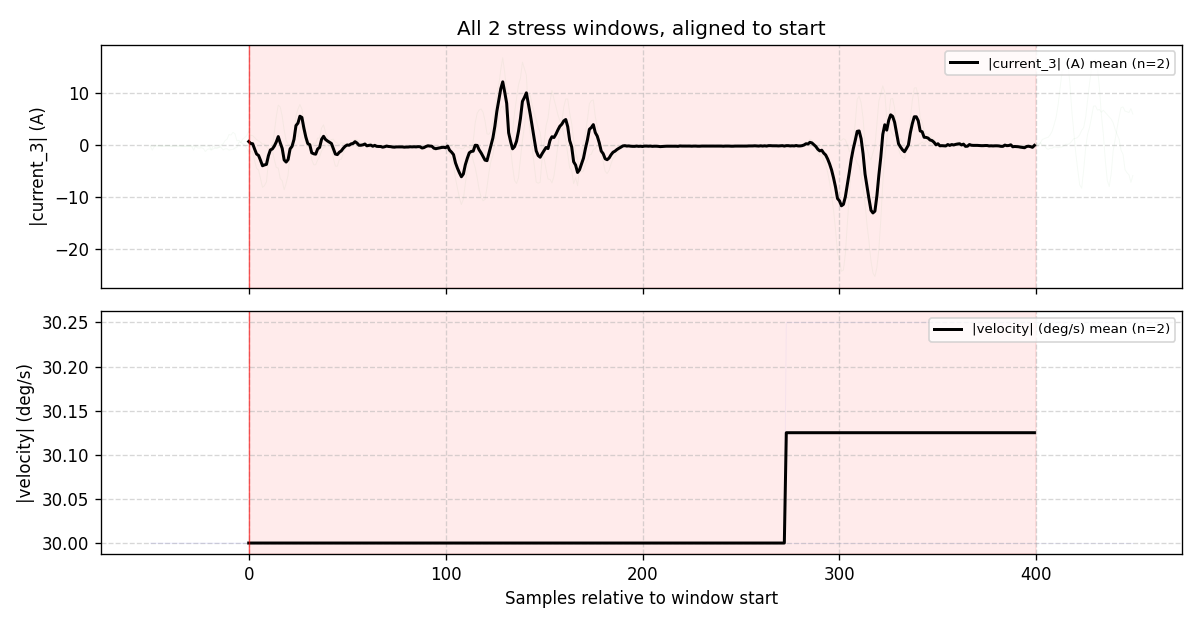
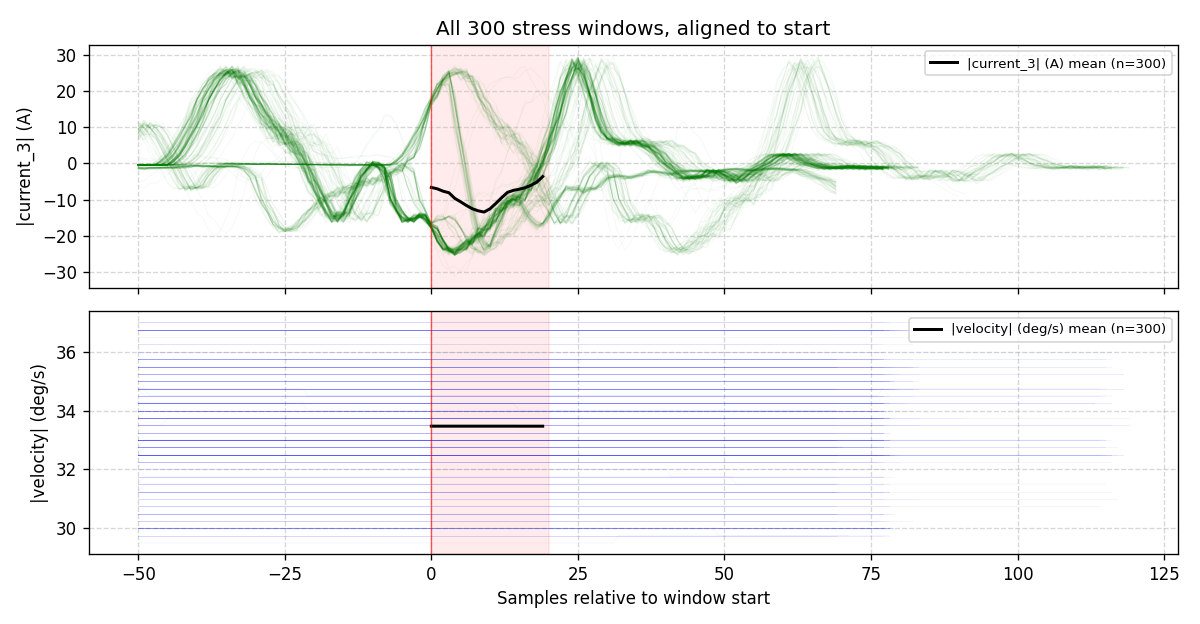
new

diff --git a/zoomplotter.py b/zoomplotter.py
@@ -54,12 +54,14 @@ type YCol = tuple[str, int | str, colour, float, float]
 
 
 def find_windows(series, thresh=None, k=3.0, min_len=20, min_gap=20):
-    """Auto-detect stress regions: contiguous runs where `series` sits above a
-    threshold. Use this when you DON'T have a window list from a detector — it just
-    reads the signal and flags the spikes.
+    """Auto-detect stress regions: contiguous runs where `series` deviates strongly
+    from its baseline. Use this when you DON'T have a window list from a detector.
 
-    thresh : level that counts as 'stressed'. If None, uses mean + k*std of the
-             signal, which adapts to whatever baseline/noise the channel has.
+    Triggers on ABSOLUTE deviation from the median, so it catches spikes whether the
+    signal swings positive OR negative (real current oscillates around zero; a
+    one-sided 'above mean' test would miss the negative excursions).
+
+    thresh : deviation magnitude that counts as 'stressed'. If None, uses k * std.
     min_len: drop runs shorter than this (kills single-sample noise blips).
     min_gap: merge two runs separated by fewer than this many samples (so one event
              that briefly dips under the line isn't split into two).
@@ -67,9 +69,13 @@ def find_windows(series, thresh=None, k=3.0, min_len=20, min_gap=20):
     Returns a list of (start, end) sample-index tuples.
     """
     series = np.asarray(series, float)
+    if series.size == 0:
+        return []
+    baseline = np.median(series)
+    dev = np.abs(series - baseline)
     if thresh is None:
-        thresh = series.mean() + k * series.std()
-    hot = series > thresh
+        thresh = k * series.std()
+    hot = dev > thresh
     edges = np.diff(hot.astype(int))
     starts = list(np.where(edges == 1)[0] + 1)
     ends = list(np.where(edges == -1)[0] + 1)
@@ -178,10 +184,16 @@ def graphAllWindowsOverlay(file_name, windows, yCols: list[YCol], pad=50,
     col_indices = sorted({col_to_index(c[1]) for c in yCols})
     times, cols = _read_columns(file_name, col_indices)
     n = len(times)
-    if n == 0 or not windows:
-        print("No data / no windows.")
+    if n == 0:
+        print("No data.")
         return
 
+    if windows is None:  # auto-detect from the first signal
+        first = cols[col_to_index(yCols[0][1])] * yCols[0][3] + yCols[0][4]
+        windows = find_windows(first)
+    if not windows:
+        print("No windows.")
+        return
     windows = [(int(s), int(e)) for s, e in windows]
     Lmin = min(e - s for s, e in windows)  # shortest window, for the mean region
 
@@ -229,11 +241,16 @@ def graphWindowGrid(file_name, windows, yCol: YCol, pad=50, max_panels=24,
     ci = col_to_index(idx)
     times, cols = _read_columns(file_name, [ci])
     n = len(times)
-    if n == 0 or not windows:
-        print("No data / no windows.")
+    if n == 0:
+        print("No data.")
         return
     series = cols[ci] * mult + off
 
+    if windows is None:  # auto-detect from this signal
+        windows = find_windows(series)
+    if not windows:
+        print("No windows.")
+        return
     windows = [(int(s), int(e)) for s, e in windows]
     total = len(windows)
     if total > max_panels:  # even spread across the run, not just the first few